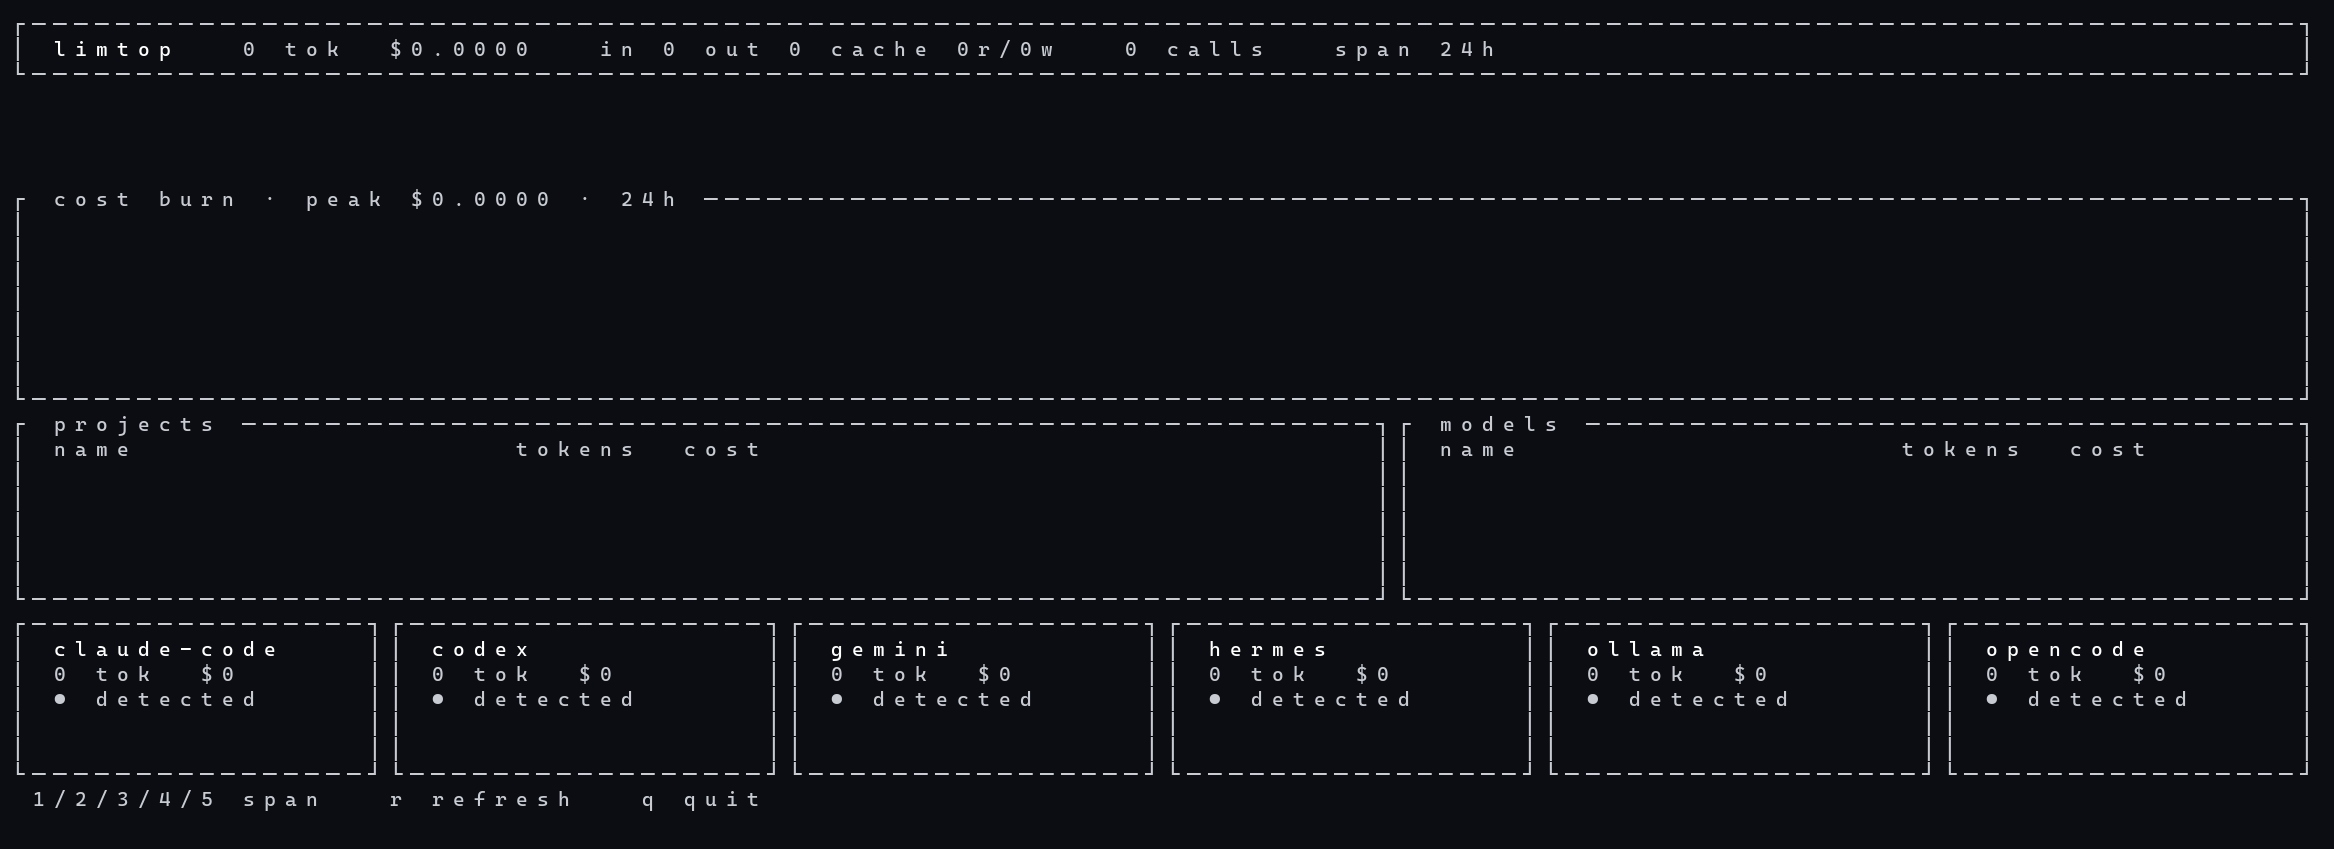
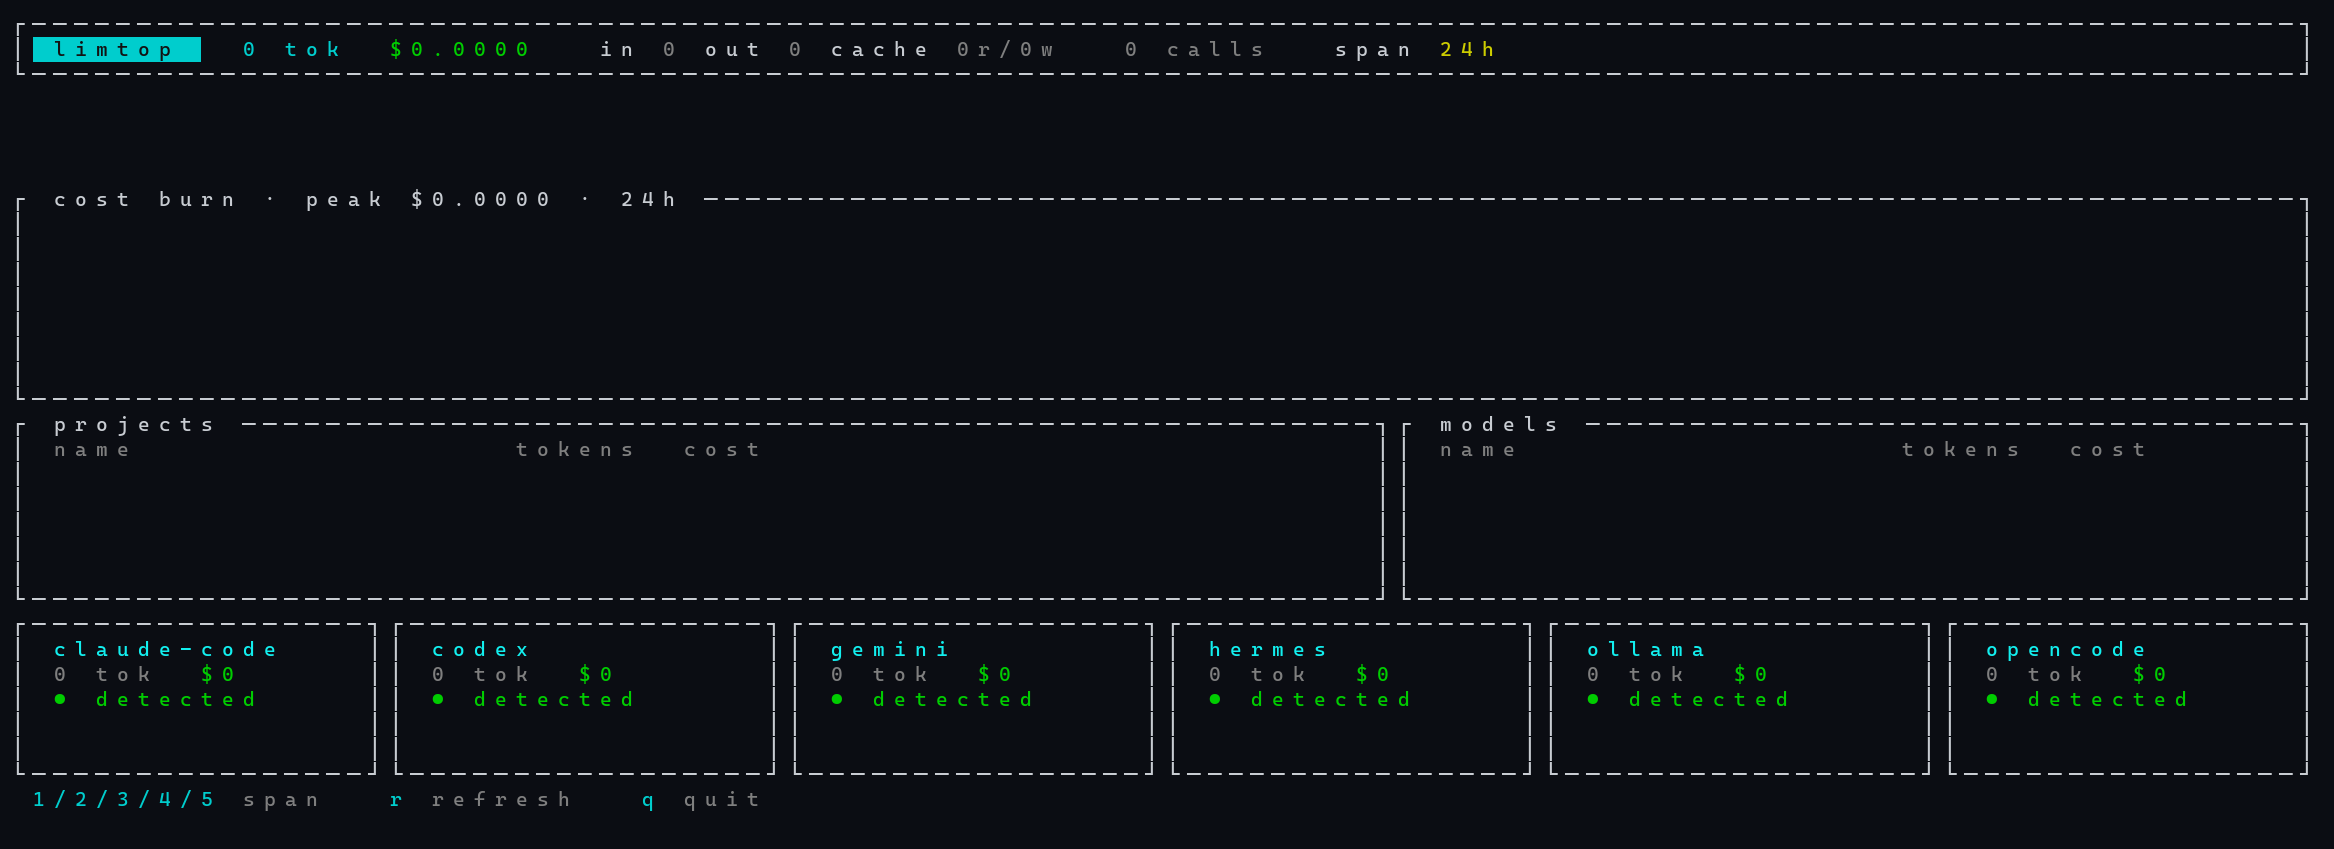
assets: full-color ANSI renderer (256-color + truecolor + backgrounds)
The captures were always color (tmux-256color); the old renderer dropped
38;5;N / 48;5;N codes and painted everything default gray. Now: full
xterm-256 palette, RGB SGR, background fills — the rate gauge renders as
a real green-filled bar, costs green, numbers cyan, time-remaining yellow.

diff --git a/assets/render_ansi.py b/assets/render_ansi.py
@@ -1,19 +1,43 @@
 #!/usr/bin/env python3
 """Render ANSI terminal captures (tmux capture-pane -e -p) to PNG.
 
+Full SGR support: basic 16, 256-color (38;5;N / 48;5;N), truecolor
+(38;2;R;G;B), bold, foregrounds AND backgrounds.
+
 Usage: render_ansi.py input.txt output.png [scale]
 """
 import re
 import sys
 from PIL import Image, ImageDraw, ImageFont
 
-# 16-color xterm palette
-PALETTE = {
-    "30": (0, 0, 0), "31": (205, 49, 49), "32": (13, 188, 121), "33": (36, 173, 214),
-    "34": (36, 114, 200), "35": (188, 82, 21), "36": (17, 168, 205), "37": (229, 229, 234),
-    "90": (102, 102, 102), "91": (241, 76, 76), "92": (35, 209, 139), "93": (127, 214, 253),
-    "94": (82, 139, 255), "95": (255, 163, 106), "96": (90, 200, 250), "97": (255, 255, 255),
-}
+# --- xterm 256-color palette --------------------------------------------
+BASE16 = [
+    (0, 0, 0), (205, 0, 0), (0, 205, 0), (205, 205, 0),
+    (0, 0, 238), (205, 0, 205), (0, 205, 205), (229, 229, 229),
+    (127, 127, 127), (255, 0, 0), (0, 255, 0), (255, 255, 0),
+    (92, 92, 255), (255, 0, 255), (0, 255, 255), (255, 255, 255),
+]
+
+def _build_palette():
+    pal = list(BASE16)
+    # 6x6x6 color cube (16..231)
+    steps = [0, 95, 135, 175, 215, 255]
+    for r in steps:
+        for g in steps:
+            for b in steps:
+                pal.append((r, g, b))
+    # grayscale ramp (232..255)
+    for i in range(24):
+        v = 8 + i * 10
+        pal.append((v, v, v))
+    return pal
+
+PALETTE256 = _build_palette()
+
+BASIC_FG = {**{str(30 + i): BASE16[i] for i in range(8)},
+            **{str(90 + i): BASE16[8 + i] for i in range(8)}}
+BASIC_BG = {**{str(40 + i): BASE16[i] for i in range(8)},
+            **{str(100 + i): BASE16[8 + i] for i in range(8)}}
 
 FONT_CANDIDATES = [
     "/usr/share/fonts/TTF/CaskaydiaMonoNerdFontMono-Regular.ttf",
@@ -26,52 +50,70 @@ ESC = re.compile(r"\x1b\[([0-9;]*)m")
 CSI_OTHER = re.compile(r"\x1b\[[0-9;?]*[a-zA-Z]|\x1b\][^\x07]*\x07|\x1b[()][A-B0]")
 
 
-def load_font(size):
-    for p in FONT_CANDIDATES:
-        try:
-            return ImageFont.truetype(p, size), True
-        except OSError:
-            continue
-    return ImageFont.load_default(), False
+def apply_sgr(params, fg, bg, bold):
+    """Apply one SGR sequence's parameter list to text state."""
+    p = [x for x in params.split(";")] if params else ["0"]
+    i = 0
+    while i < len(p):
+        v = p[i]
+        if v in ("", "0"):
+            fg, bg, bold = None, None, False
+        elif v == "1":
+            bold = True
+        elif v == "22":
+            bold = False
+        elif v == "39":
+            fg = None
+        elif v == "49":
+            bg = None
+        elif v in BASIC_FG:
+            fg = BASIC_FG[v]
+        elif v in BASIC_BG:
+            bg = BASIC_BG[v]
+        elif v in ("38", "48"):
+            # indexed next: 5;N  or  2;R;G;B
+            if i + 1 < len(p):
+                mode = p[i + 1]
+                if mode == "5" and i + 2 < len(p):
+                    n = int(p[i + 2])
+                    color = PALETTE256[n] if 0 <= n < 256 else None
+                    if v == "38":
+                        fg = color
+                    else:
+                        bg = color
+                    i += 2
+                elif mode == "2" and i + 4 < len(p):
+                    color = (int(p[i + 2]), int(p[i + 3]), int(p[i + 4]))
+                    if v == "38":
+                        fg = color
+                    else:
+                        bg = color
+                    i += 4
+        i += 1
+    return fg, bg, bold
 
 
 def parse_ansi(text):
-    """→ list of rows, each row a list of (char, fg, bold)."""
+    """→ list of rows; row = list of (char, fg, bg, bold)."""
     rows = []
-    cur = []
-    fg, bold = None, False
     for line in text.split("\n"):
-        cur = []
-        fg, bold = None, False
+        row = []
+        fg = bg = None
+        bold = False
         i = 0
         while i < len(line):
             m = ESC.match(line, i)
             if m:
-                params = m.group(1)
-                if params in ("", "0"):
-                    fg, bold = None, False
-                else:
-                    for p in params.split(";"):
-                        if p == "1":
-                            bold = True
-                        elif p == "22":
-                            bold = False
-                        elif p in PALETTE:
-                            fg = p
-                        elif p.startswith("38"):
-                            # 38;5;n → map n into palette approx (ratatui base colors only)
-                            pass
-                        elif p == "39":
-                            fg = None
+                fg, bg, bold = apply_sgr(m.group(1), fg, bg, bold)
                 i = m.end()
                 continue
             m2 = CSI_OTHER.match(line, i)
             if m2:
                 i = m2.end()
                 continue
-            cur.append((line[i], fg, bold))
+            row.append((line[i], fg, bg, bold))
             i += 1
-        rows.append(cur)
+        rows.append(row)
     return rows
 
 
@@ -82,22 +124,34 @@ def render(text, out_path, scale=1):
     font, true_font = load_font(font_size)
     cw = (font_size + 1) if true_font else int(font_size * 0.6)
     ch = int(font_size * 1.25)
-    pad = 12
+    pad = 12 * scale
     W = pad * 2 + cols * cw
     H = pad * 2 + len(rows) * ch
-    img = Image.new("RGB", (W, H), (11, 13, 19))  # dark bg
+    img = Image.new("RGB", (W, H), (11, 13, 19))
     d = ImageDraw.Draw(img)
     default_fg = (200, 204, 210)
     for y, row in enumerate(rows):
-        for x, (c, fg, bold) in enumerate(row):
-            if c.strip() == "":
+        for x, (c, fg, bg, bold) in enumerate(row):
+            px, py = pad + x * cw, pad + y * ch
+            if bg:
+                d.rectangle([px, py, px + cw - 1, py + ch - 1], fill=bg)
+            if c in (" ", "\t"):
                 continue
-            col = PALETTE.get(fg, default_fg) if fg else (default_fg if not bold else (255, 255, 255))
+            col = fg or (default_fg if not bold else (240, 240, 240))
             if bold:
-                col = tuple(min(255, int(v * 1.1) + 20) for v in col)
-            d.text((pad + x * cw, pad + y * ch), c, fill=col, font=font)
+                col = tuple(min(255, int(v * 1.08) + 18) for v in col)
+            d.text((px, py), c, fill=col, font=font)
     img.save(out_path)
     print(f"{out_path}: {W}x{H}, {len(rows)} rows, {cols} cols")
+
+
+def load_font(size):
+    for p in FONT_CANDIDATES:
+        try:
+            return ImageFont.truetype(p, size), True
+        except OSError:
+            continue
+    return ImageFont.load_default(), False
 
 
 if __name__ == "__main__":
